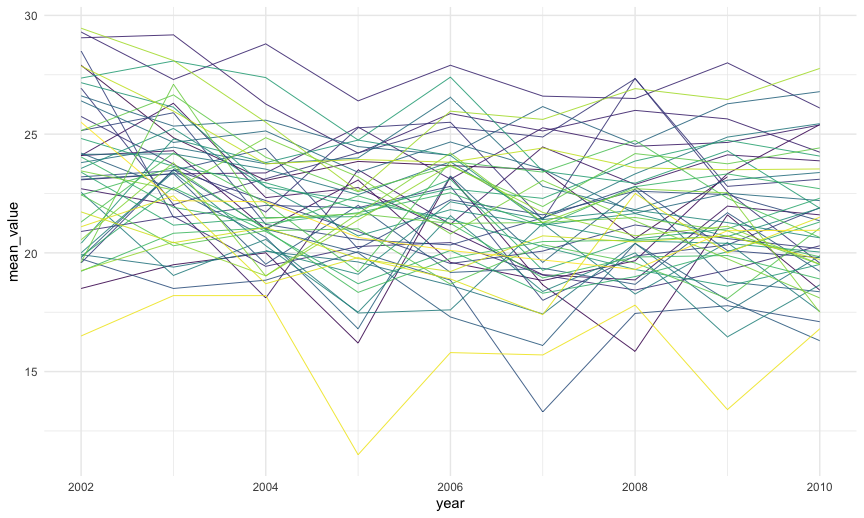
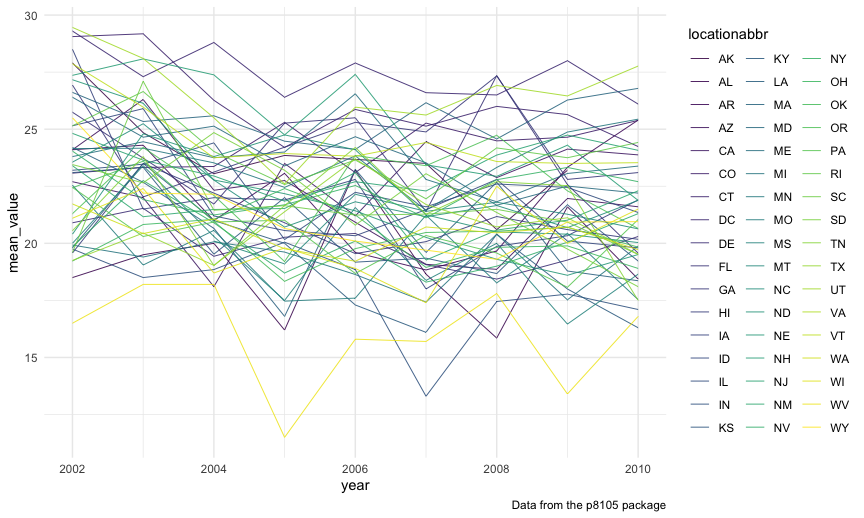
Problem 3 -> aggregate minutes data & plot 24-hours activity time courses & modify previous plots

diff --git a/p8105_hw3_qw2331.md b/p8105_hw3_qw2331.md
@@ -325,12 +325,14 @@ response_in_state <-
 # A "spaghetti" plot
 response_in_state %>% 
   ggplot(aes(x = year, y = mean_value, color = locationabbr)) + 
-  geom_line(
-    size = .3,
-    show_guide = FALSE)
+  geom_line(size = .3) + 
+  theme(
+    legend.position = "right"
+  ) + 
+  labs(
+    caption = "Data from the p8105 package"
+  )
 ```
-
-    ## Warning: `show_guide` has been deprecated. Please use `show.legend` instead.
 
 <img src="p8105_hw3_qw2331_files/figure-gfm/unnamed-chunk-12-1.png" width="90%" />
 
@@ -339,21 +341,11 @@ response_in_state %>%
     among locations in NY state.
 
 ``` r
-resp <- 
-    c("Excellent", "Very good", "Good", "Fair", "Poor")
-
 brfss_df %>% 
   filter(
-    year %in% c(2006, 2010) & locationabbr == "NY" & response %in% resp) %>% 
-  mutate(
-    response = factor(response, levels = resp)
-  ) %>% 
-  group_by(year, response) %>% 
-  summarize(
-    mean_value = mean(data_value, na.rm = TRUE)
-  ) %>% 
-  ggplot(aes(x = response, y = mean_value, fill = response)) + 
-  geom_bar(stat = "identity", width = .8) +  
+    year %in% c(2006, 2010) & locationabbr == "NY") %>% 
+  ggplot(aes(x = data_value, fill = response)) + 
+  geom_density(alpha = .5) +  
   facet_grid(. ~ year) + 
   labs(
     y = "Mean data value in NY State",
@@ -369,11 +361,12 @@ brfss_df %>%
 **Load the data `accel_data`**
 
 ``` r
+# Load the data
 accel_raw <- 
   read_csv("./data/accel_data.csv")
 ```
 
-**Do some data cleaning & a short description**
+**Answer the following question** + Tidy and wrangle the data
 
 ``` r
 accel_df <- 
@@ -406,3 +399,73 @@ accel_df <-
         which ranges from `1` to `1440`;
     -   Variable `activity` represents the activity value collected with
         min value `1` and max value `8982`.
+-   Focus on the total activity
+
+``` r
+# Aggregate minutes data
+ttl_act <- 
+  accel_df %>% 
+  group_by(week, day) %>% 
+  summarize(
+    sum_activity = sum(activity)
+  )
+
+# Create a table
+ttl_act %>% 
+  pivot_wider(
+    names_from = "day",
+    values_from = "sum_activity"
+  ) %>% 
+  relocate(1, 5, 3, 7, 8, 6, 2, 4) %>% 
+  knitr::kable(
+    caption = "Total activity thru a day",
+    align = "l"
+  )
+```
+
+| week | Sunday | Monday    | Tuesday  | Wednesday | Thursday | Friday   | Saturday |
+|:-----|:-------|:----------|:---------|:----------|:---------|:---------|:---------|
+| 1    | 631105 | 78828.07  | 307094.2 | 340115    | 355923.6 | 480542.6 | 376254   |
+| 2    | 422018 | 295431.00 | 423245.0 | 440962    | 474048.0 | 568839.0 | 607175   |
+| 3    | 467052 | 685910.00 | 381507.0 | 468869    | 371230.0 | 467420.0 | 382928   |
+| 4    | 260617 | 409450.00 | 319568.0 | 434460    | 340291.0 | 154049.0 | 1440     |
+| 5    | 138421 | 389080.00 | 367824.0 | 445366    | 549658.0 | 620860.0 | 1440     |
+
+Total activity thru a day
+
+``` r
+# Draw a plot
+ttl_act %>% 
+  mutate(
+    day = factor(day, levels = weekdays(as.Date("2021-10-18") + 0:6))
+  ) %>% 
+  ggplot(aes(x = day, y = sum_activity, group = week, color = week)) + 
+  geom_point(alpha = .8) + 
+  geom_line()
+```
+
+<img src="p8105_hw3_qw2331_files/figure-gfm/unnamed-chunk-16-1.png" width="90%" />
+
+From the above plot, in general, the total activity on weekends is less
+than weekdays.
+
+-   Show the 24-hour activity time courses for each day
+
+``` r
+accel_df %>% 
+  ggplot(aes(x = minute / 60, y = activity, color = day)) + 
+  geom_line() + 
+  labs(
+    x = "Hours",
+    y = "Activity",
+    title = "24-hour activity time courses"
+  )
+```
+
+<img src="p8105_hw3_qw2331_files/figure-gfm/unnamed-chunk-17-1.png" width="90%" />
+
+-   From the above plot,
+    -   The activity counts are obviously lower from midnight to early
+        morning;
+    -   This participant is more active near noon and the late night
+        around 8 pm to 10 pm.
